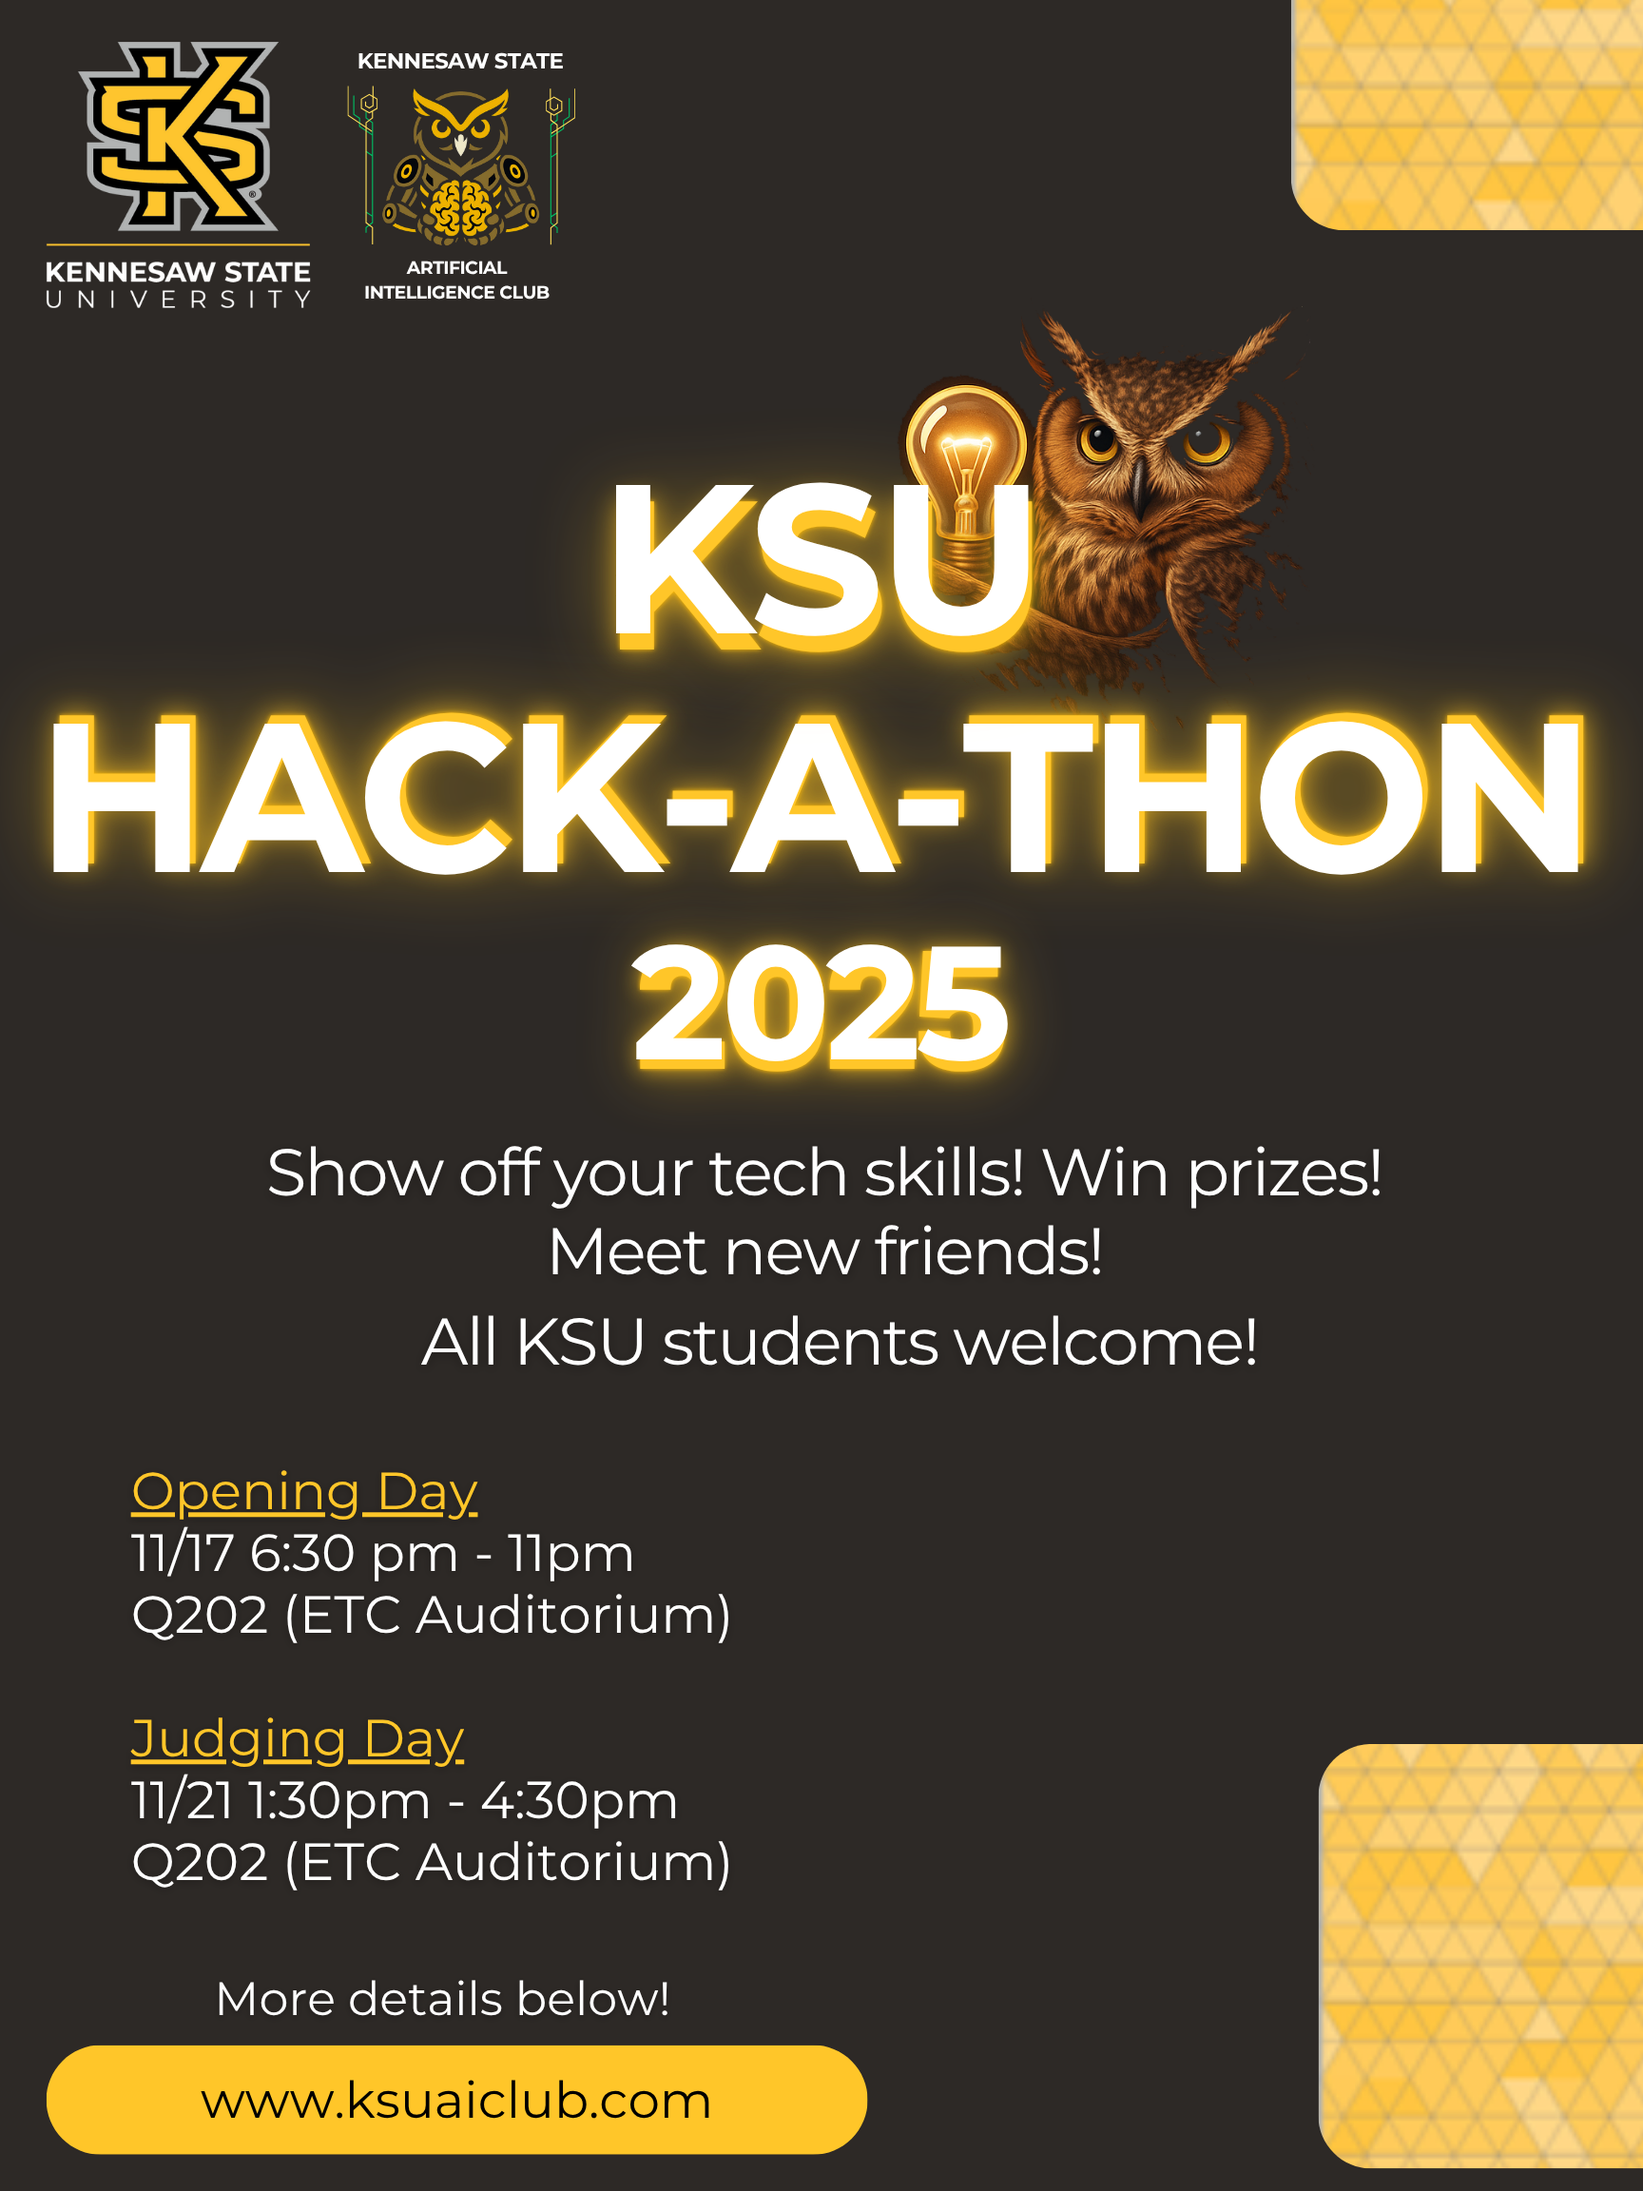
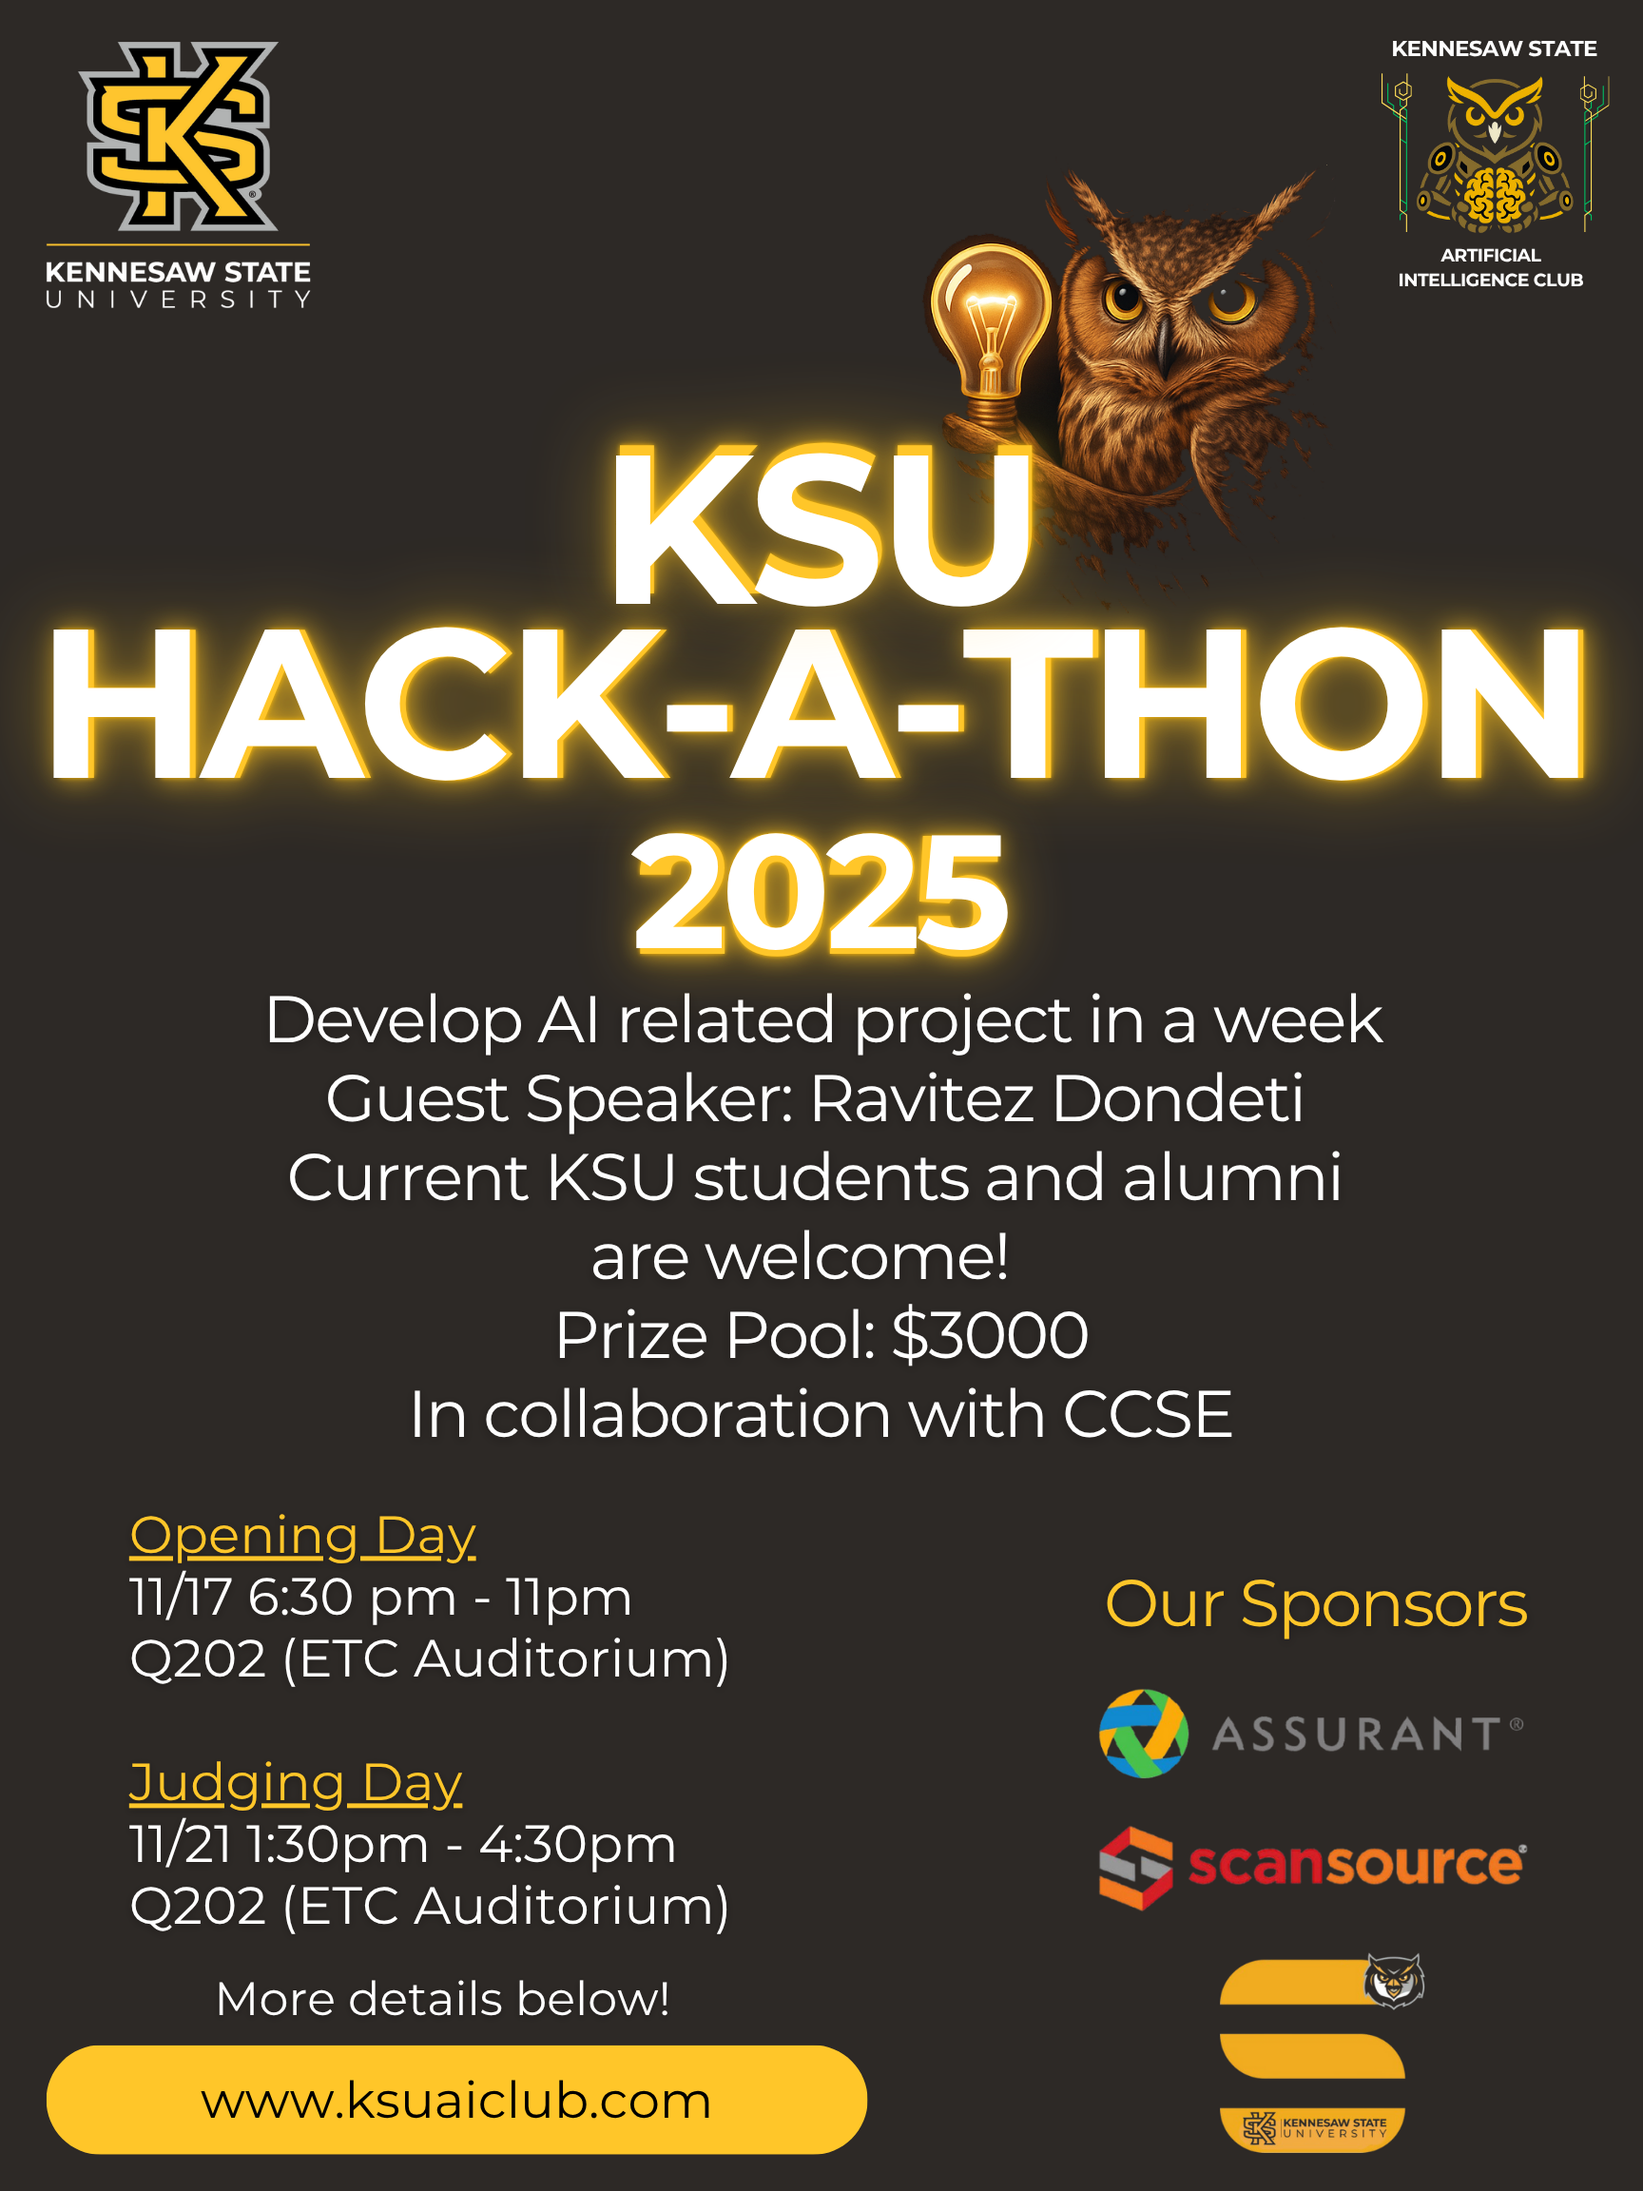
Updated Hackathon Information (#13)

Changed region(s): [[0.0, 0.0, 1.0, 0.875], [0.6562, 0.7188, 1.0, 1.0], [0.2188, 0.0, 0.3438, 0.1562]]

diff --git a/ai-club-site/app/events/page.tsx b/ai-club-site/app/events/page.tsx
@@ -69,7 +69,7 @@ export default function EventsPage() {
                         Must be a KSU student to participate
                     </p>
                     <p className="text-xl text-ksu-white leading-relaxed max-w-3xl mx-auto">
-                        4 person team maximum
+                        4 people per team maximum
                     </p>
                 </section>
 
@@ -84,27 +84,19 @@ export default function EventsPage() {
 
                 <section className="text-center mt-16 p-6 bg-ksu-gray/20 rounded-xl shadow-inner border border-ksu-white/10">
                     <h2 className="text-3xl font-extrabold text-ksu-white mb-5 tracking-wide">
+                        OwlLife RSVP
+                    </h2>
+                    <p className="text-xl text-ksu-white leading-relaxed max-w-3xl mx-auto">
+                        <a href="https://owllife.kennesaw.edu/event/11885006" className='text-ksu-gold'>OwlLife Link</a>
+                    </p>
+                </section>
+
+                <section className="text-center mt-16 p-6 bg-ksu-gray/20 rounded-xl shadow-inner border border-ksu-white/10">
+                    <h2 className="text-3xl font-extrabold text-ksu-white mb-5 tracking-wide">
                         Join Discord for more information!
                     </h2>
                     <p className="text-xl text-ksu-white leading-relaxed max-w-3xl mx-auto">
                         <a href="https://discord.gg/qSS56d5ZdS" className='text-ksu-gold'>Discord Link</a>
-                    </p>
-                </section>
-                <section className="text-center mt-16 p-6 bg-ksu-gray/20 rounded-xl shadow-inner border border-ksu-white/10">
-                    <h2 className="text-3xl font-extrabold text-ksu-white mb-5 tracking-wide">
-                        Rules
-                    </h2>
-                    <p className="text-xl text-ksu-white leading-relaxed max-w-3xl mx-auto">
-                        Projects must be completed within the hackathon period
-                    </p>
-                    <p className="text-xl text-ksu-white leading-relaxed max-w-3xl mx-auto">
-                        All projects must utilize AI in some capacity
-                    </p>
-                    <p className="text-xl text-ksu-white leading-relaxed max-w-3xl mx-auto">
-                        Must be a KSU student to participate
-                    </p>
-                    <p className="text-xl text-ksu-white leading-relaxed max-w-3xl mx-auto">
-                        4 person team maximum
                     </p>
                 </section>
 
